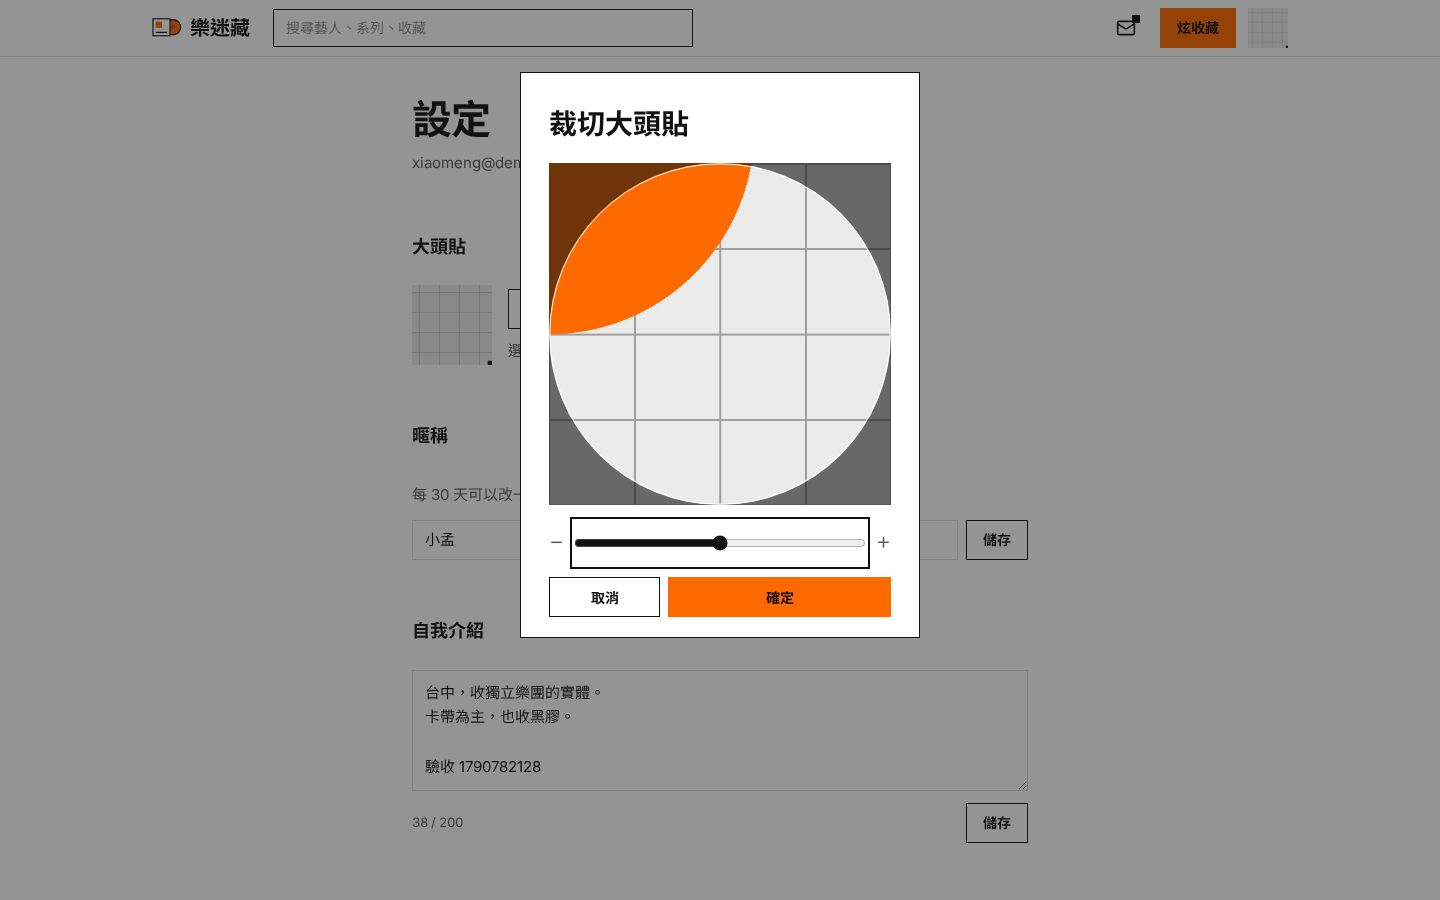
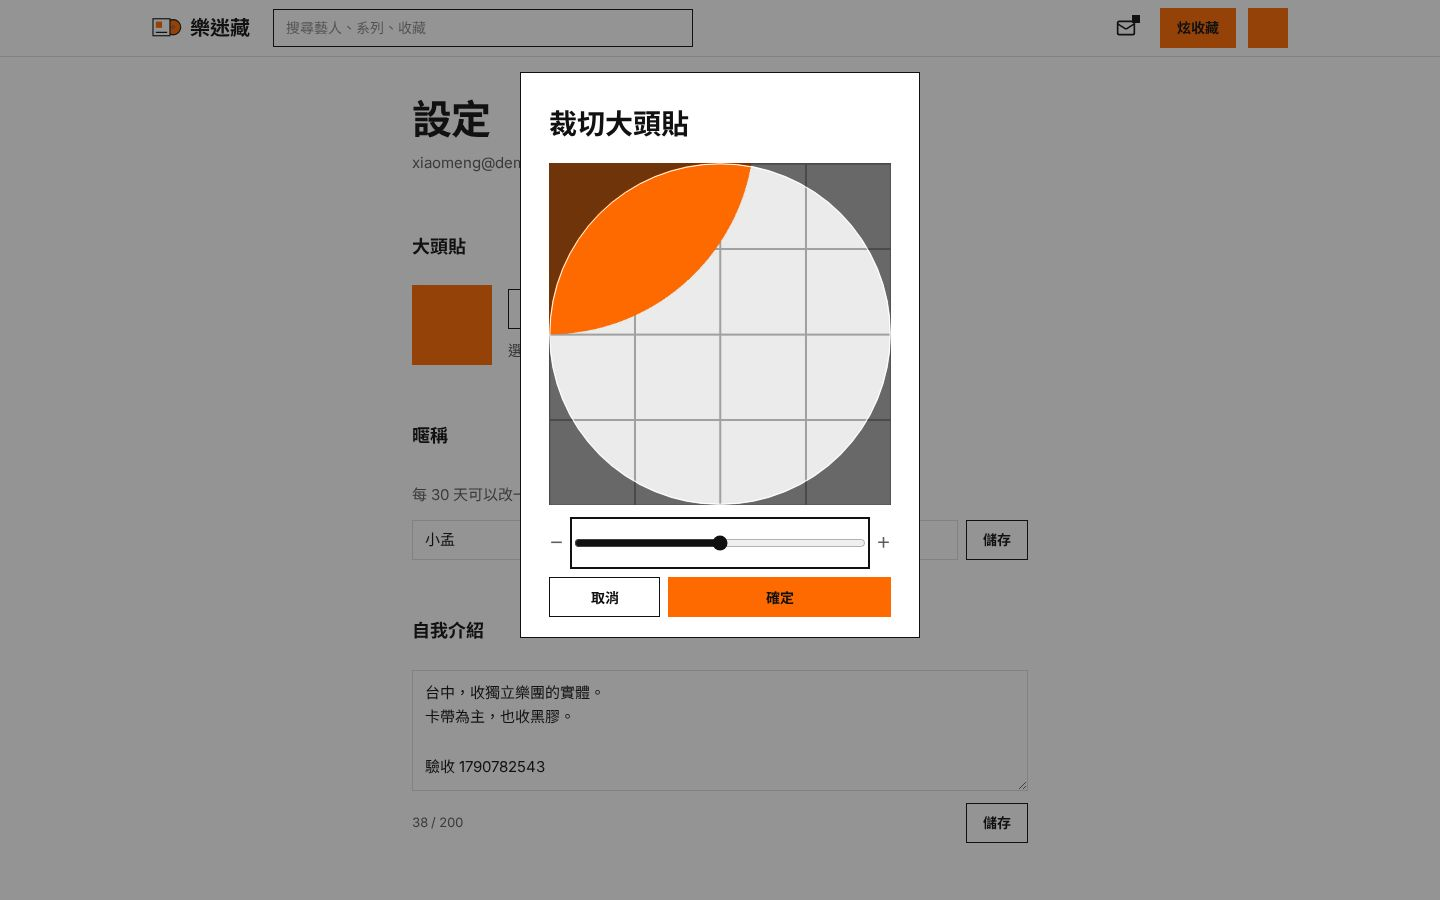
作者欄顯示大頭貼（卡片、單則頁走 Ava，目錄帶 authorAvatar）；首頁標語不分登入一律顯示，撤掉 data-auth／lmb_auth
Claude-Session: https://claude.ai/code/session_016Pgk2nLaWZm8WqvW1dNrK5

Changed region(s): [[0.2812, 0.3111, 0.3438, 0.4044], [0.8438, 0.0, 0.9062, 0.0622], [0.3438, 0.84, 0.375, 0.8711]]

diff --git a/網站/lib/server/content.ts b/網站/lib/server/content.ts
@@ -123,7 +123,7 @@ async function build(): Promise<Catalog> {
     // 等級小標籤跟著目錄一起算（2026-09-29）：卡片、單則頁從快取的 HTML 直接帶，不另外發請求；
     // user_scores 沒有內容版本觸發器，分數變了等下一次內容變動才換，不為等級讓整頁快取失效
     db
-      .select({ id: users.id, handle: users.handle, name: users.name, email: users.email, emailVerifiedAt: users.emailVerifiedAt, score: userScores.score, override: levelOverrides.level })
+      .select({ id: users.id, handle: users.handle, name: users.name, avatarKey: users.avatarKey, email: users.email, emailVerifiedAt: users.emailVerifiedAt, score: userScores.score, override: levelOverrides.level })
       .from(users)
       .leftJoin(userScores, eq(userScores.userId, users.id))
       .leftJoin(levelOverrides, eq(levelOverrides.userId, users.id)),
@@ -135,6 +135,11 @@ async function build(): Promise<Catalog> {
   const userById = new Map(uRows.map((u) => [u.id, u]));
   const handleOf = (id: string | null) => (id ? (userById.get(id)?.handle ?? "") : "");
   const nameOf = (id: string | null) => (id ? (userById.get(id)?.name ?? "") : "");
+  // 卡片、單則頁作者欄的大頭貼（2026-09-30）。換大頭貼寫 users.avatar_key，有內容版本觸發器，目錄與整頁快取跟著換新
+  const avatarOf = (id: string | null) => {
+    const k = id ? userById.get(id)?.avatarKey : null;
+    return k ? `/img/${k}` : undefined;
+  };
   const badgeOf = (id: string | null) => {
     const u = id ? userById.get(id) : undefined;
     return u ? badgeText(u.score ?? 0, isAdmin(u), u.override) : "";
@@ -268,6 +273,7 @@ async function build(): Promise<Catalog> {
         author: handleOf(s.authorId),
         authorName: nameOf(s.authorId),
         authorBadge: badgeOf(s.authorId),
+        ...(avatarOf(s.authorId) ? { authorAvatar: avatarOf(s.authorId) } : {}),
         time: relTime(s.createdAt, now),
         order: Date.parse(s.createdAt) || s.no,
         what: s.customWhat || s.what,

diff --git a/網站/app/globals.css b/網站/app/globals.css
@@ -220,19 +220,9 @@ ul { list-style: none; margin: 0; padding: 0; }
 
 .page { padding: 40px 32px 96px; }
 .page-wall { padding-top: 24px; }
-/* 首頁標語：只給訪客看，節點一律在，靠 opacity 切換避免版面跳動（見 home-tagline.tsx） */
-.home-tagline {
-  align-items: baseline; color: var(--muted); display: flex; flex-wrap: wrap; font-size: var(--text-sm);
-  gap: 10px; margin-bottom: 20px; opacity: 0; pointer-events: none; transition: opacity 200ms cubic-bezier(.22, 1, .36, 1);
-}
-.home-tagline[data-visible="true"] { opacity: 1; pointer-events: auto; }
+/* 首頁標語：訪客與登入會員一律顯示（2026-09-30 使用者定案，見 home-tagline.tsx） */
+.home-tagline { align-items: baseline; color: var(--muted); display: flex; flex-wrap: wrap; font-size: var(--text-sm); gap: 10px; margin-bottom: 20px; }
 .home-tagline-link { color: var(--text); font-weight: 600; text-decoration: underline; text-underline-offset: 3px; white-space: nowrap; }
-@media (prefers-reduced-motion: reduce) { .home-tagline { transition: none; } }
-/* 登入者整條收起（2026-09-30 iPhone 回報「頁首下一條空白」）：原本只切 opacity 仍佔位，登入者看到頁首與灰色帶之間一條空白。
-   data-auth 由 layout.tsx head 小腳本（讀上次狀態）與 lib/account.tsx（讀到 /api/me 後）設定 */
-html[data-auth="user"] .home-tagline, .home-tagline[data-state="user"] { display: none; }
-/* 標語收起後灰色帶直接貼頁首，不留 page-wall 上方 24px 白條 */
-html[data-auth="user"] .page-wall:has(> .home-tagline), .page-wall:has(> .home-tagline[data-state="user"]) { padding-top: 0; }
 .page-narrow { max-width: 680px; }
 .page-head { margin-bottom: 32px; }
 .head-split { align-items: flex-end; display: flex; flex-wrap: wrap; gap: 16px; justify-content: space-between; }

diff --git a/網站/app/layout.tsx b/網站/app/layout.tsx
@@ -21,7 +21,7 @@ export default function RootLayout({ children }: Readonly<{ children: React.Reac
   // 贊助：全站最不顯眼的小字連結，網址在環境變數 SPONSOR_URL，沒設就整個不出現（2026-09-28）
   const sponsor = sponsorUrl();
   return (
-    <html lang="zh-Hant-TW" suppressHydrationWarning>
+    <html lang="zh-Hant-TW">
       <head>
         {/* 2026-09-30 Logo 定案（B 版正方形紙套）：分頁用簡化小圖示（SVG 沒有底線；PNG 備援 16px 沒底線、32px 留加粗底線），iPhone 主畫面用完整插圖 180px。
             直接寫在 <head>，不走 metadata.icons：vinext 會把 metadata 的圖示串流到 <body> 再靠 JS 搬，iOS 與爬蟲讀原始 HTML 看不到 */}
@@ -29,13 +29,6 @@ export default function RootLayout({ children }: Readonly<{ children: React.Reac
         <link rel="icon" href="/favicon-32.png" type="image/png" sizes="32x32" />
         <link rel="icon" href="/favicon-16.png" type="image/png" sizes="16x16" />
         <link rel="apple-touch-icon" href="/apple-touch-icon.png" sizes="180x180" />
-        {/* 上次是登入狀態 → 第一個畫面就收起首頁訪客標語（見 lib/account.tsx rememberAuth、globals.css .home-tagline）。
-            html 的 data-auth 是這支腳本在 hydrate 前加的，所以 <html> 要 suppressHydrationWarning */}
-        <script
-          dangerouslySetInnerHTML={{
-            __html: `try{if(localStorage.getItem("lmb_auth")==="user")document.documentElement.dataset.auth="user"}catch(e){}`,
-          }}
-        />
         <link rel="preconnect" href="https://fonts.googleapis.com" />
         <link rel="preconnect" href="https://fonts.gstatic.com" crossOrigin="anonymous" />
         <link

diff --git a/網站/components/home-tagline.tsx b/網站/components/home-tagline.tsx
@@ -1,19 +1,13 @@
-"use client";
-
-// 首頁標語，只給訪客看（首頁整頁快取，登入者與訪客拿到同一份 HTML，顯示與否交給瀏覽器端判斷）。
-// 節點一律渲染、佔位不變，只切換 opacity：避免登入狀態讀出來的那一刻畫面跳動，
-// 也避免登入者看到訪客標語閃一下（未讀出登入狀態前預設隱藏）。
-// 確定是登入者就整條收起（data-state="user"，見 globals.css），不留空白；上次是登入的人由 <html data-auth> 第一個畫面就收起。
+// 首頁標語＋「關於我們」（2026-09-30 使用者定案：訪客與登入會員一律顯示）。
+// 伺服器直接畫、不看登入狀態：首頁整頁快取給誰都同一份 HTML，第一個畫面就在，不會閃也不會跳。
+// 之前「登入者收起」的做法（opacity 切換、<html data-auth>、localStorage lmb_auth）已撤掉。
 import Link from "next/link";
-import { useAccount } from "@/lib/account";
 
 export function HomeTagline() {
-  const acc = useAccount();
-  const visible = acc.status === "anon";
   return (
-    <p className="home-tagline" data-visible={visible} data-state={acc.status}>
+    <p className="home-tagline" data-testid="home-tagline">
       <span>別讓一張專輯的來歷，只有少數人知道。</span>
-      <Link href="/about" className="home-tagline-link" tabIndex={visible ? 0 : -1} aria-hidden={!visible}>
+      <Link href="/about" className="home-tagline-link">
         關於我們
       </Link>
     </p>

diff --git a/網站/lib/account.tsx b/網站/lib/account.tsx
@@ -61,26 +61,8 @@ let pending: ((afterLogin: boolean) => void) | null = null;
 const listeners = new Set<() => void>();
 const set = (patch: Partial<Account>) => {
   acc = { ...acc, ...patch };
-  if (patch.status && patch.status !== "loading") rememberAuth(patch.status);
   listeners.forEach((l) => l());
 };
-
-/** 登入狀態記一份在 localStorage＋<html data-auth>：首頁整頁快取、登入狀態要等 /api/me，
- *  layout.tsx 的 head 小腳本讀這份，讓「上次是登入」的人第一個畫面就不留訪客標語的空白（2026-09-30） */
-export const AUTH_HINT_KEY = "lmb_auth";
-function rememberAuth(status: "anon" | "user") {
-  try {
-    if (status === "user") {
-      localStorage.setItem(AUTH_HINT_KEY, "user");
-      document.documentElement.dataset.auth = "user";
-    } else {
-      localStorage.removeItem(AUTH_HINT_KEY);
-      delete document.documentElement.dataset.auth;
-    }
-  } catch {
-    // 無痕模式等讀寫不到 localStorage 就算了，只是回到登入狀態讀出後才收起
-  }
-}
 
 type ApiError = { code: string; message: string; email?: string; wait?: number };
 export type ApiResult<T> = { ok: true; data: T } | { ok: false; status: number; error: ApiError };

diff --git a/網站/lib/data.ts b/網站/lib/data.ts
@@ -277,6 +277,8 @@ export type Share = {
   authorName?: string;
   /** 發文者的等級小標籤（「收藏家 Lv.3」／「館長」），目錄建立時算好 */
   authorBadge?: string;
+  /** 發文者的大頭貼網址（2026-09-30）；沒有就不帶，前端顯示暱稱首字 */
+  authorAvatar?: string;
   link?: { series: string; item?: string; version?: string };
   sale?: Sale;
   /** 管理員標為「辨識參考」的照片（2026-09-28 起改由管理員標記；shares.ref_photo 舊值不再使用） */
@@ -373,7 +375,7 @@ export type ShareView = {
   photos?: SharePhoto[];
   /** 封面的查證碼（單則頁照片下方顯示；只有單則頁帶） */
   code?: string;
-  author: { handle: string; name: string; initials: string; badge?: string };
+  author: { handle: string; name: string; initials: string; badge?: string; avatar?: string };
   link?: { href: string; label: string; seriesKey: string; itemId?: string; versionId?: string };
   sale: Sale;
   /** 跟哪些藝人有關（跟誰有關＋標籤撞名），首頁「追蹤中」用 */

diff --git a/網站/components/share-card.tsx b/網站/components/share-card.tsx
@@ -1,5 +1,6 @@
 "use client";
 
+import { Ava } from "@/components/ava";
 import Image from "next/image";
 import Link from "next/link";
 import { priceText, shareHref, tagHref, userHref, type Lock, type Sale, type ShareView } from "@/lib/data";
@@ -145,9 +146,7 @@ export function ShareCard({ share }: { share: ShareView }) {
       <TagList about={share.about} tags={share.tags} links={share.tagLinks} />
       <footer className="card-foot">
         <Link className="who" href={userHref(share.author.handle)}>
-          <span className="ava ava-sm" aria-hidden="true">
-            {share.author.initials}
-          </span>
+          <Ava name={share.author.name} src={share.author.avatar} />
           <span className="who-name">{share.author.name}</span>
         </Link>
         <LevelTag badge={share.author.badge} card />

diff --git a/網站/lib/catalog.ts b/網站/lib/catalog.ts
@@ -233,7 +233,13 @@ export class Catalog {
       color: s.color,
       ...(s.image ? { image: s.image } : {}),
       ...(s.thumb ? { thumb: s.thumb } : {}),
-      author: { handle: s.author, name, initials: Array.from(name)[0] ?? "?", ...(s.authorBadge ? { badge: s.authorBadge } : {}) },
+      author: {
+        handle: s.author,
+        name,
+        initials: Array.from(name)[0] ?? "?",
+        ...(s.authorBadge ? { badge: s.authorBadge } : {}),
+        ...(s.authorAvatar ? { avatar: s.authorAvatar } : {}),
+      },
       ...(link ? { link } : {}),
       sale: s.sale ?? { state: "share" },
       aboutSlugs: this.aboutSlugs(s),

diff --git a/網站/components/share-detail.tsx b/網站/components/share-detail.tsx
@@ -776,9 +776,7 @@ export function ShareDetail({
         <h1 className="page-title">{share.what}</h1>
         <div className="detail-by">
           <Link className="who" href={userHref(share.author.handle)}>
-            <span className="ava ava-sm" aria-hidden="true">
-              {share.author.initials}
-            </span>
+            <Ava name={share.author.name} src={share.author.avatar} />
             <span className="who-name">{share.author.name}</span>
           </Link>
           <LevelTag badge={share.author.badge} />

diff --git a/產出/20260930_我的頁面改版/_驗收_作者頭像與標語.py b/產出/20260930_我的頁面改版/_驗收_作者頭像與標語.py
@@ -1,0 +1,166 @@
+"""作者欄大頭貼＋首頁標語一律顯示 驗收（2026-09-30，併進我的頁面改版包）。
+
+    python3 _驗收_作者頭像與標語.py [http://127.0.0.1:8795]
+    正式站：MYPAGE_TOKEN=… python3 _驗收_作者頭像與標語.py https://lemibox.com
+
+- 作者頭像：首頁第一頁每位作者，卡片頭像要跟他個人頁的頭像一致（有大頭貼＝圖、沒有＝首字）；單則頁作者欄各截一張有／沒有大頭貼的
+- 本機另外驗「換大頭貼後卡片跟著換」：API 換一張新的，重新整理首頁，卡片網址要變成新的那張（整頁快取跟著換新）
+- 標語：WebKit 390／320，訪客與登入各一次，第一個畫面就在、之後位置不動；登入者故意留舊的 localStorage lmb_auth=user 也照樣顯示
+"""
+
+import io
+import json
+import os
+import re
+import subprocess
+import sys
+import urllib.request
+from pathlib import Path
+from urllib.parse import urlparse
+
+from PIL import Image
+from playwright.sync_api import sync_playwright
+
+BASE = sys.argv[1] if len(sys.argv) > 1 else "http://127.0.0.1:8795"
+PROD = "127.0.0.1" not in BASE
+HERE = Path(__file__).resolve().parent
+SITE = HERE.parent.parent / "網站"
+OUT = HERE / "img"
+OUT.mkdir(exist_ok=True)
+PRE = "正式站_" if PROD else ""
+HANDLE = "xiaomeng"
+results: list[tuple[str, bool, str]] = []
+
+
+def check(name, ok, detail=""):
+    results.append((name, bool(ok), detail))
+    print(("PASS " if ok else "FAIL ") + name + (f"  {detail}" if detail else ""), flush=True)
+
+
+def shot(page, name, full=False, clip=None):
+    kw = {"clip": clip} if clip else {"full_page": full}
+    page.screenshot(path=str(OUT / f"{PRE}{name}.jpg"), type="jpeg", quality=80, **kw)
+
+
+def login() -> str:
+    req = urllib.request.Request(
+        f"{BASE}/api/auth/login",
+        data=json.dumps({"email": f"{HANDLE}@demo.yinzang.test", "password": "yinzang-demo", "turnstileToken": "XXXX.DUMMY.TOKEN.XXXX"}).encode(),
+        headers={"content-type": "application/json", "origin": BASE},
+    )
+    with urllib.request.urlopen(req, timeout=20) as r:
+        return re.search(r"yz_session=([^;]+)", r.headers.get("set-cookie", "")).group(1)
+
+
+def upload_avatar(token: str, color) -> str:
+    buf = io.BytesIO()
+    Image.new("RGB", (256, 256), color).save(buf, "WEBP", quality=80)
+    body = buf.getvalue()
+    b = "----mypage"
+    data = (f"--{b}\r\nContent-Disposition: form-data; name=\"image\"; filename=\"avatar.webp\"\r\nContent-Type: image/webp\r\n\r\n").encode() + body + f"\r\n--{b}--\r\n".encode()
+    req = urllib.request.Request(f"{BASE}/api/me/avatar", data=data, headers={"content-type": f"multipart/form-data; boundary={b}", "origin": BASE, "cookie": f"yz_session={token}"})
+    with urllib.request.urlopen(req, timeout=20) as r:
+        return json.loads(r.read())["url"]
+
+
+CARDS = """() => [...document.querySelectorAll('.card-foot .who')].map(a => {
+  const img = a.querySelector('img.ava'); const span = a.querySelector('span.ava');
+  return { handle: a.getAttribute('href').replace('/u/', ''), img: img ? img.getAttribute('src') : null, text: span ? span.textContent : null,
+           n: a.closest('article')?.querySelector('.card-title a')?.getAttribute('href') }; })"""
+
+
+def main():
+    token = os.environ["MYPAGE_TOKEN"] if PROD else login()
+    host = urlparse(BASE).hostname
+    cookie = [{"name": "yz_session", "value": token, "domain": host, "path": "/", "httpOnly": True, "secure": PROD}]
+    if not PROD:
+        subprocess.run(["node", "--import", "./scripts/sites-env.mjs", "./node_modules/wrangler/bin/wrangler.js", "d1", "execute", "DB", "--local",
+                        "--config", "wrangler.local.jsonc", "--persist-to", ".wrangler/state", "--command",
+                        f"DELETE FROM rate_limits WHERE key LIKE 'avatar:demo-{HANDLE}:%'"], cwd=SITE, check=True, capture_output=True)
+
+    with sync_playwright() as p:
+        errors = []
+        b = p.chromium.launch()
+        ctx = b.new_context(viewport={"width": 1440, "height": 900})
+        pg = ctx.new_page()
+        pg.on("console", lambda m: errors.append(m.text) if m.type == "error" else None)
+        pg.goto(f"{BASE}/?sort=new", wait_until="load")
+        pg.wait_for_selector(".card-foot .who")
+        cards = pg.evaluate(CARDS)
+        truth = {}
+        for h in sorted({c["handle"] for c in cards}):
+            pg2 = ctx.new_page()
+            pg2.goto(f"{BASE}/u/{h}", wait_until="load")
+            truth[h] = pg2.get_attribute(".profile-ava img.ava", "src") if pg2.locator(".profile-ava img.ava").count() else None
+            pg2.close()
+        bad = [c for c in cards if c["img"] != truth[c["handle"]] or (c["img"] is None and not c["text"])]
+        with_img = [c for c in cards if c["img"]]
+        check("首頁卡片頭像跟作者個人頁一致（有大頭貼顯示圖、沒有顯示首字）", not bad, f"{len(cards)} 張卡、{len(with_img)} 張有大頭貼；不一致 {bad[:3]}")
+        check("首頁至少有一張卡片是大頭貼", len(with_img) > 0, str(with_img[:1]))
+        if with_img:
+            el = pg.locator(f".card-foot .who[href='/u/{with_img[0]['handle']}']").first
+            el.scroll_into_view_if_needed()
+            art = el.locator("xpath=ancestor::article").bounding_box()
+            shot(pg, "1440_首頁卡片_有大頭貼", clip={"x": art["x"] - 8, "y": art["y"] + art["height"] - 140, "width": art["width"] * 2 + 40, "height": 150})
+        no_img = [c for c in cards if not c["img"]]
+        for label, c in [("有大頭貼", with_img[0] if with_img else None), ("沒大頭貼", no_img[0] if no_img else None)]:
+            if not c:
+                check(f"單則頁作者欄 {label}：找得到樣本", False)
+                continue
+            pg.goto(f"{BASE}{c['n']}", wait_until="load")
+            pg.wait_for_selector(".detail-by .who")
+            src = pg.get_attribute(".detail-by .who img.ava", "src") if pg.locator(".detail-by .who img.ava").count() else None
+            check(f"單則頁作者欄 {label}", src == c["img"] and (src or pg.locator(".detail-by .who span.ava").count() == 1), f"{c['n']} {src}")
+            bb = pg.locator(".detail-by").bounding_box()
+            shot(pg, f"1440_單則頁作者欄_{label}", clip={"x": bb["x"] - 8, "y": bb["y"] - 60, "width": min(900, bb["width"] + 16), "height": bb["height"] + 76})
+
+        # 本機：換大頭貼後卡片跟著換（整頁快取版本換新）
+        if not PROD:
+            before = [c["img"] for c in cards if c["handle"] == HANDLE]
+            new = upload_avatar(token, (255, 106, 0))
+            pg.goto(f"{BASE}/?sort=new", wait_until="load")
+            after = [c["img"] for c in pg.evaluate(CARDS) if c["handle"] == HANDLE]
+            check("換大頭貼後首頁卡片換成新的那張", after and all(a == new for a in after) and new not in before, f"{before[:1]} → {after[:1]}（新 {new}）")
+            cache = pg.evaluate("fetch(location.href).then(r => r.headers.get('x-yz-cache'))")
+            check("首頁走整頁快取（x-yz-cache 表頭；上一項證明快取版本已換新）", cache in ("HIT", "MISS"), str(cache))
+        ctx.close()
+        b.close()
+
+        # 標語：WebKit 390／320，訪客＋登入
+        wk = p.webkit.launch()
+        for w in [390, 320]:
+            for who in ["訪客", "登入"]:
+                c = wk.new_context(viewport={"width": w, "height": 780}, is_mobile=True, has_touch=True, device_scale_factor=3)
+                if who == "登入":
+                    c.add_cookies(cookie)
+                    c.add_init_script("try{localStorage.setItem('lmb_auth','user')}catch(e){}")
+                pg = c.new_page()
+                pg.on("console", lambda m: errors.append(f"webkit {w}: {m.text}") if m.type == "error" else None)
+                pg.goto(f"{BASE}/", wait_until="domcontentloaded")
+                first = pg.evaluate("""() => { const t = document.querySelector('[data-testid=home-tagline]');
+                    const r = t?.getBoundingClientRect(); const band = t?.nextElementSibling?.getBoundingClientRect();
+                    return t ? { top: r.top, h: r.height, op: getComputedStyle(t).opacity, disp: getComputedStyle(t).display, band: band?.top } : null; }""")
+                pg.wait_for_load_state("load")
+                if who == "登入":
+                    pg.wait_for_selector("[data-testid=me-avatar]", timeout=15000)
+                pg.wait_for_timeout(1500)
+                later = pg.evaluate("""() => { const t = document.querySelector('[data-testid=home-tagline]');
+                    const r = t.getBoundingClientRect(); const band = t.nextElementSibling?.getBoundingClientRect();
+                    return { top: r.top, h: r.height, op: getComputedStyle(t).opacity, disp: getComputedStyle(t).display, band: band?.top,
+                             text: t.innerText, auth: document.documentElement.dataset.auth ?? null }; }""")
+                check(f"WebKit {w} {who}：第一個畫面就有標語", first and first["h"] > 0 and first["op"] == "1" and first["disp"] != "none", str(first))
+                check(f"WebKit {w} {who}：標語含「關於我們」、之後位置不動", "關於我們" in later["text"] and later["op"] == "1" and first and abs(later["top"] - first["top"]) < 0.5 and abs((later["band"] or 0) - (first["band"] or 0)) < 0.5, f"{first} → {later}")
+                check(f"WebKit {w} {who}：<html> 沒有 data-auth", later["auth"] is None)
+                shot(pg, f"webkit_{w}_首頁標語_{who}")
+                c.close()
+        wk.close()
+        check("沒有 console error", not errors, "\n".join(errors[:6]))
+
+    ok = sum(1 for r in results if r[1])
+    print(f"\n{ok}/{len(results)} 通過")
+    (HERE / f"result_作者頭像與標語_{'正式站' if PROD else '本機'}.json").write_text(json.dumps([{"name": n, "ok": o, "detail": d} for n, o, d in results], ensure_ascii=False, indent=1), encoding="utf-8")
+    sys.exit(0 if ok == len(results) else 1)
+
+
+if __name__ == "__main__":
+    main()
